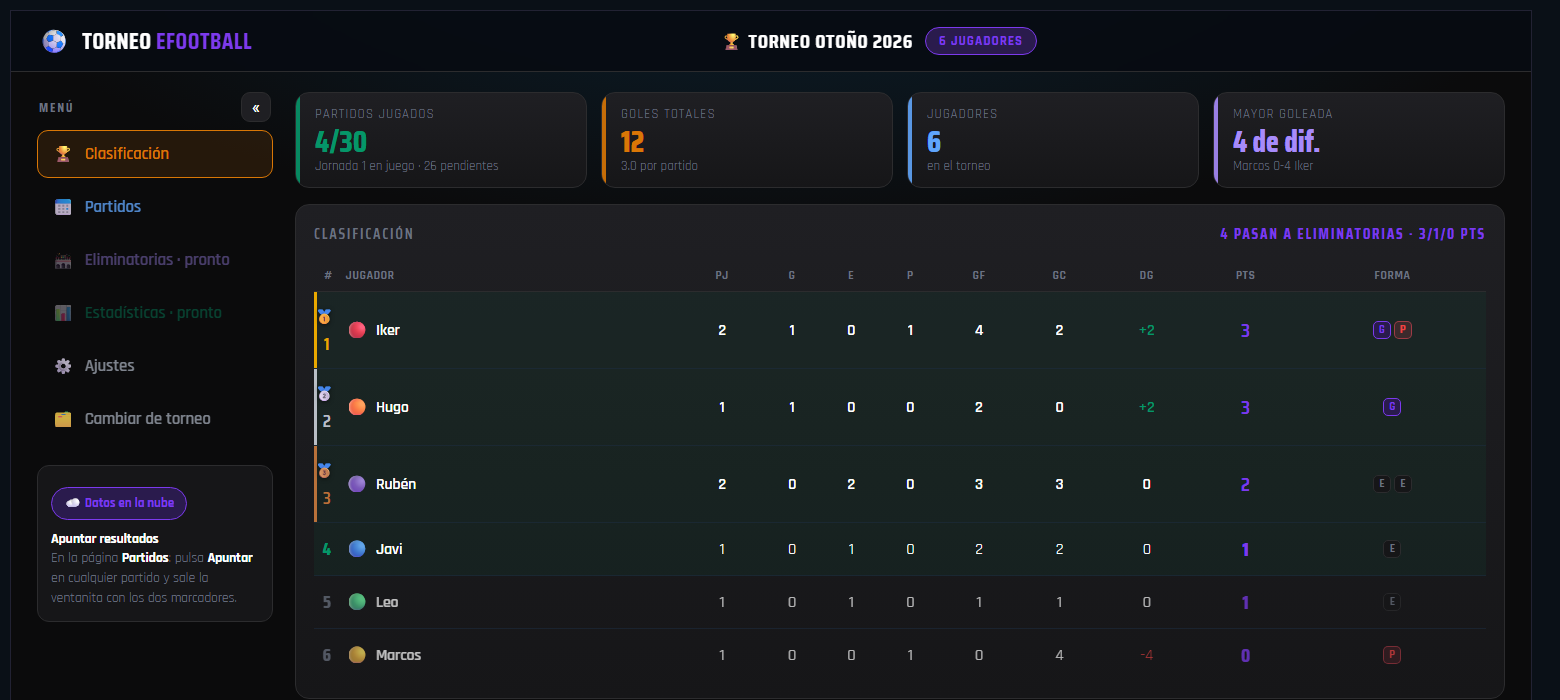
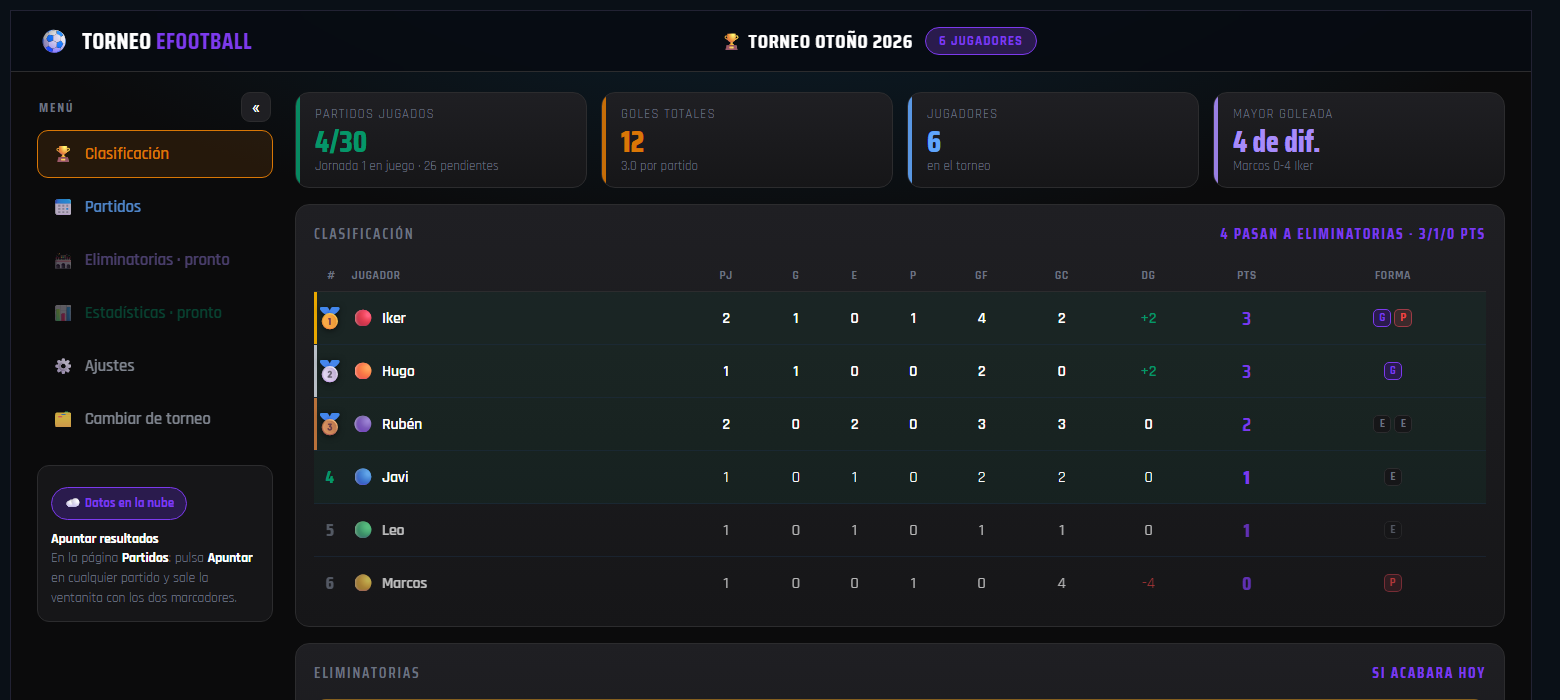
Medalla sola (sin numero) y mas grande en el podio, titulos de panel mas visibles y servidor.bat para levantar la web

diff --git a/docs/diagnostico-partidos.html b/docs/diagnostico-partidos.html
@@ -1,0 +1,71 @@
+<!DOCTYPE html>
+<html lang="es">
+<head>
+<meta charset="UTF-8">
+<title>Diagnóstico: abrir Partidos desde el menú</title>
+<style>
+  body { background:#0A1017; color:#DFE8F2; font-family:ui-monospace,monospace; padding:16px; }
+  iframe { width:1400px; height:420px; border:1px solid #223; }
+  pre { background:#0E1621; padding:14px; border-radius:10px; white-space:pre-wrap; font-size:13px; }
+</style>
+</head>
+<body>
+<h2 style="color:#00E676;font-size:16px">Diagnóstico del enlace "Partidos"</h2>
+<iframe id="marco" src="../clasificacion.html"></iframe>
+<pre id="salida">Ejecutando…</pre>
+<script>
+const marco = document.getElementById('marco');
+const esperar = ms => new Promise(r => setTimeout(r, ms));
+const salida = document.getElementById('salida');
+
+const info = { pasos: [] };
+
+async function esperarListo(win, intentos = 200) {
+  for (let i = 0; i < intentos; i++) {
+    await esperar(150);
+    try { if (win.__listo) return true; } catch (e) {}
+  }
+  return false;
+}
+
+marco.onload = async () => {
+  marco.onload = null;
+  try {
+    const w = marco.contentWindow;
+    const listo1 = await esperarListo(w);
+    info.pasos.push('clasificacion.html cargada: ' + listo1);
+    info.urlClasificacion = w.location.href;
+
+    // Enlaces del menú y sus destinos
+    const enlaces = Array.from(marco.contentDocument.querySelectorAll('nav a')).map(a => ({
+      texto: a.textContent.trim(), pagina: a.dataset.pagina || null, href: a.getAttribute('href')
+    }));
+    info.enlaces = enlaces;
+
+    // Clic en "Partidos", como haría Leo
+    const enlacePartidos = Array.from(marco.contentDocument.querySelectorAll('nav a'))
+      .find(a => /partidos/i.test(a.textContent));
+    info.enlacePulsado = enlacePartidos ? enlacePartidos.getAttribute('href') : 'NO ENCONTRADO';
+
+    if (enlacePartidos) enlacePartidos.click();
+    await esperar(6000);
+
+    const w2 = marco.contentWindow;
+    const listo2 = await esperarListo(w2, 60);
+    const d2 = marco.contentDocument;
+    info.urlTrasClic = w2.location.href;
+    info.partidosCargada = listo2;
+    info.tituloPartidos = d2.title;
+    info.filasDePartidos = d2.querySelectorAll('#lista-partidos .partido-fila').length;
+    info.jornadas = d2.querySelectorAll('#lista-partidos .jornada').length;
+    info.tieneMenu = !!d2.getElementById('sidebar');
+    info.errores = window.__errores || [];
+  } catch (e) {
+    info.excepcion = e.message;
+  }
+  salida.textContent = JSON.stringify(info, null, 2);
+  document.title = 'diag-listo';
+};
+</script>
+</body>
+</html>

diff --git a/css/estilos.css b/css/estilos.css
@@ -200,14 +200,26 @@ body {
   padding: 17px 18px;
   margin-bottom: 16px;
 }
+/* Títulos de los paneles: que se noten (barrita de acento, más grandes y en blanco) */
 .panel-titulo {
   font-family: var(--fuente-numeros);
-  font-size: 15px; letter-spacing: .12em; text-transform: uppercase;
-  color: var(--muted); margin: 0 0 14px;
-  display: flex; align-items: center; justify-content: space-between;
-  flex-wrap: wrap; gap: 6px;
+  font-size: 18px; letter-spacing: .14em; text-transform: uppercase;
+  color: var(--texto); font-weight: 800;
+  margin: 0 0 16px; padding-bottom: 10px;
+  border-bottom: 2px solid rgba(var(--acento-rgb), .32);
+  display: flex; align-items: center; flex-wrap: wrap; gap: 8px;
 }
-.panel-titulo b { color: var(--neon); }
+/* Barrita de acento delante del título */
+.panel-titulo::before {
+  content: ''; flex: 0 0 auto;
+  width: 5px; height: 19px; border-radius: 3px;
+  background: var(--neon);
+  box-shadow: 0 0 10px rgba(var(--acento-rgb), .55);
+}
+.panel-titulo > b { margin-left: auto; color: var(--neon); }
+/* Los botones que van dentro del título se van a la derecha */
+.panel-titulo > .btn-mini-ir:first-of-type { margin-left: auto; }
+.panel-titulo > b + .btn-mini-ir { margin-left: 0; }
 
 .rejilla-3 { display: grid; grid-template-columns: minmax(560px, 1.35fr) minmax(320px, .9fr) minmax(280px, .75fr); gap: 16px; align-items: start; }
 .columna { display: flex; flex-direction: column; gap: 0; }
@@ -578,10 +590,12 @@ body {
 .tema-opcion.activo .tema-check { opacity: 1; }
 
 /* ---------- Insignias del podio en la clasificación (los dos temas) ---------- */
+/* En el 1º, 2º y 3º la medalla ocupa el sitio del número */
 .tabla td.pos .medalla {
-  display: inline-block; margin-right: 5px; font-size: 15px; line-height: 1;
-  filter: drop-shadow(0 1px 2px rgba(0,0,0,.55));
+  display: block; font-size: 23px; line-height: 1;
+  filter: drop-shadow(0 1px 3px rgba(0,0,0,.6));
 }
+.tabla td.pos { width: 32px; }
 /* El color de la posición lo pone el metal del podio (más arriba en el archivo) */
 .tabla tr.podio-1 td, .tabla tr.podio-2 td, .tabla tr.podio-3 td { font-weight: 600; }
 

diff --git a/js/clasificacion.js b/js/clasificacion.js
@@ -133,7 +133,7 @@ function pintarClasificacion() {
 
     const tr = el('tr', clases.join(' '));
     tr.innerHTML = `
-      <td class="pos">${medalla ? `<span class="medalla" title="${i + 1}º puesto">${medalla}</span>` : ''}${i + 1}</td>
+      <td class="pos"${medalla ? ` title="${i + 1}º puesto"` : ''}>${medalla ? `<span class="medalla">${medalla}</span>` : (i + 1)}</td>
       <td class="nombre jugador"><span class="emoji">${f.emoji}</span>${f.nombre}</td>
       <td>${f.pj}</td>
       <td>${f.pg}</td>
